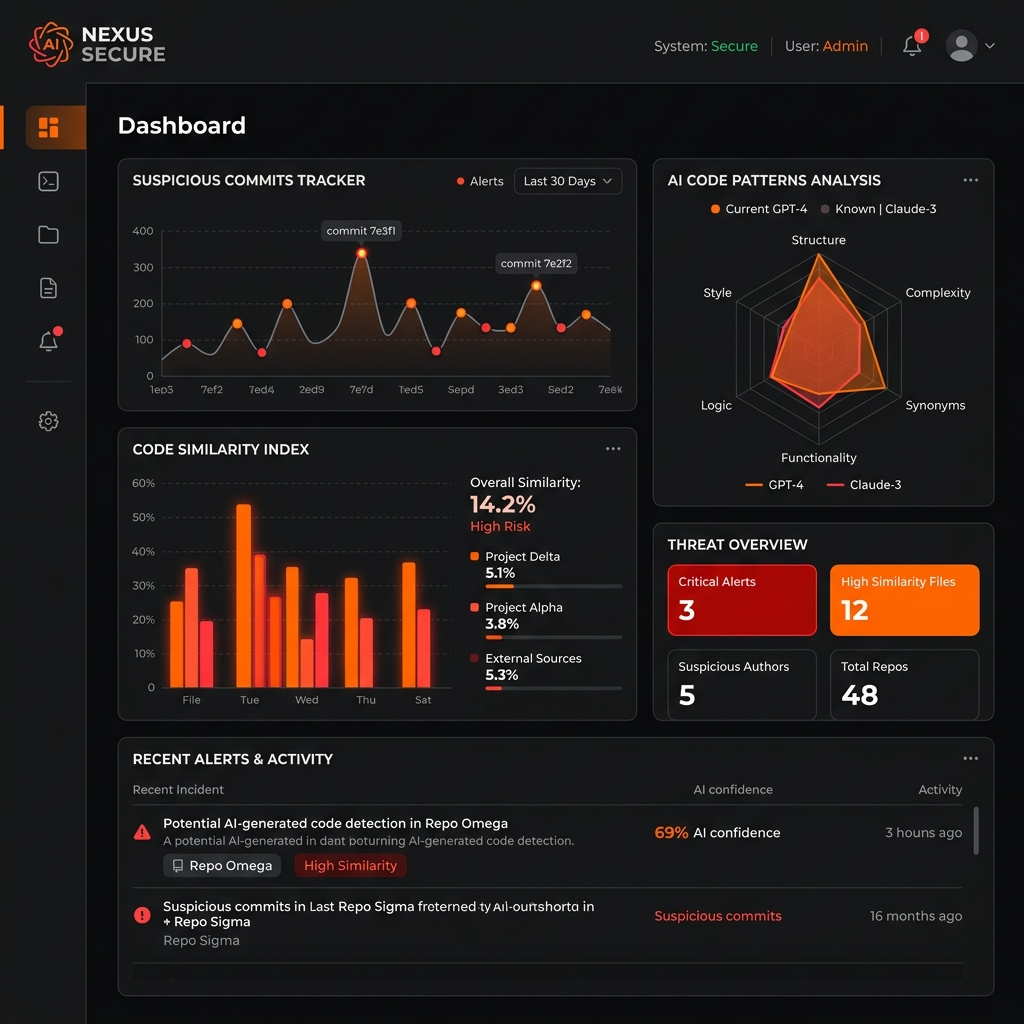
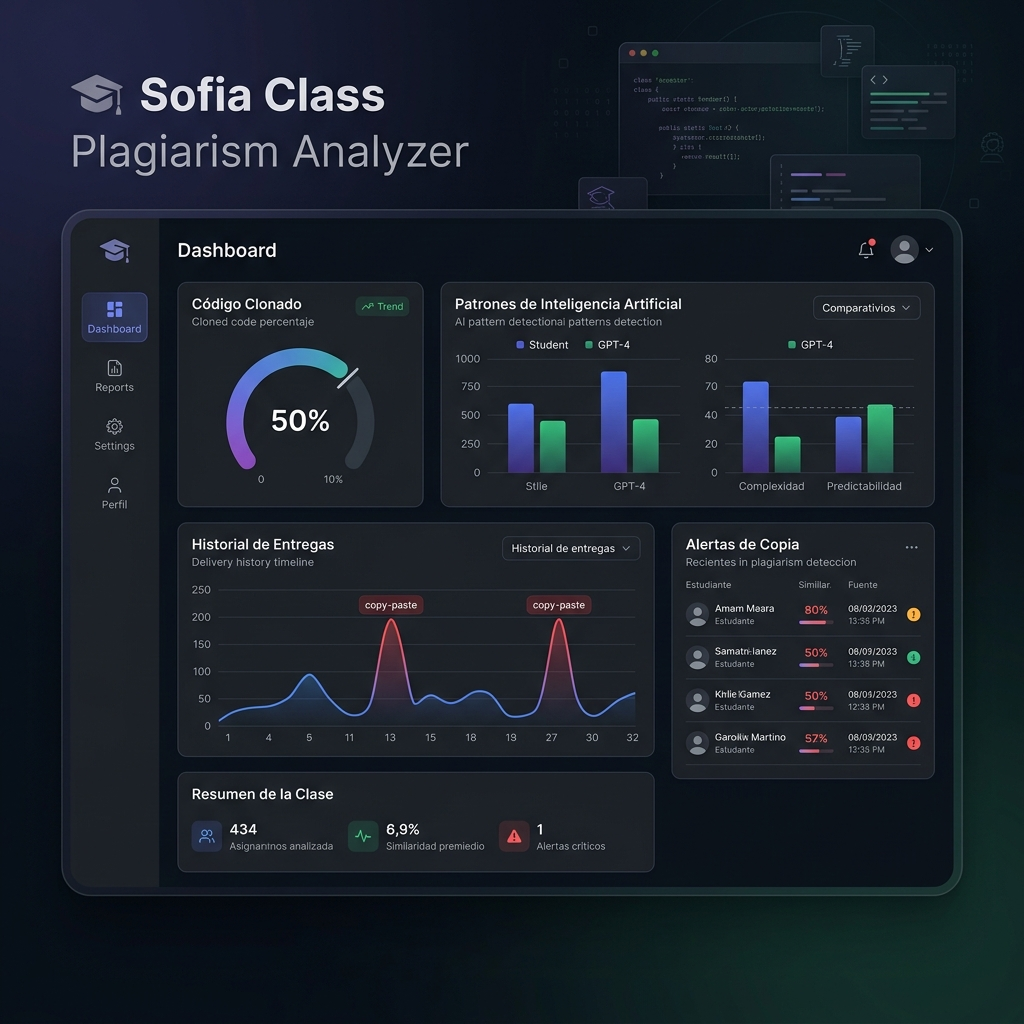
docs: corregir etiqueta de alerta a espanol y reemplazar dashboard generico por uno especifico de plagio docente

diff --git a/README.md b/README.md
@@ -33,8 +33,7 @@ Si tus alumnos usan IA (ChatGPT, Copilot) para resolver los exámenes prácticos
 *   **Análisis de Historial (GitHub):** En lugar de solo ver el resultado final, puedes ver el **historial de commits**. Si un alumno tiene 500 líneas de código perfectas subidas de golpe en un solo commit, es una señal clara de "copiar y pegar".
 *   **Auditoría en Tiempo Real (Codespaces):** Al usar Codespaces, puedes entrar en vivo en la sesión del alumno (Live Share) para ver cómo construye la lógica paso a paso, o revisar el historial de comandos ejecutados en la terminal.
 
-> [!IMPORTANT]
-> **Nota sobre Equidad:** Estas herramientas deben servir como **orientación**, no como juez único. Es vital mantener la revisión humana para evitar falsos positivos y asegurar que la tecnología fomente el aprendizaje honesto sin crear un clima de vigilancia punitiva.
+> ⚠ **IMPORTANTE - Nota sobre Equidad:** Estas herramientas deben servir como **orientación**, no como juez único. Es vital mantener la revisión humana para evitar falsos positivos y asegurar que la tecnología fomente el aprendizaje honesto sin crear un clima de vigilancia punitiva.
 
 ![Suspicious Patterns & IA Plagiarism Dashboard](assets/plagiarism_dashboard.png)
 
